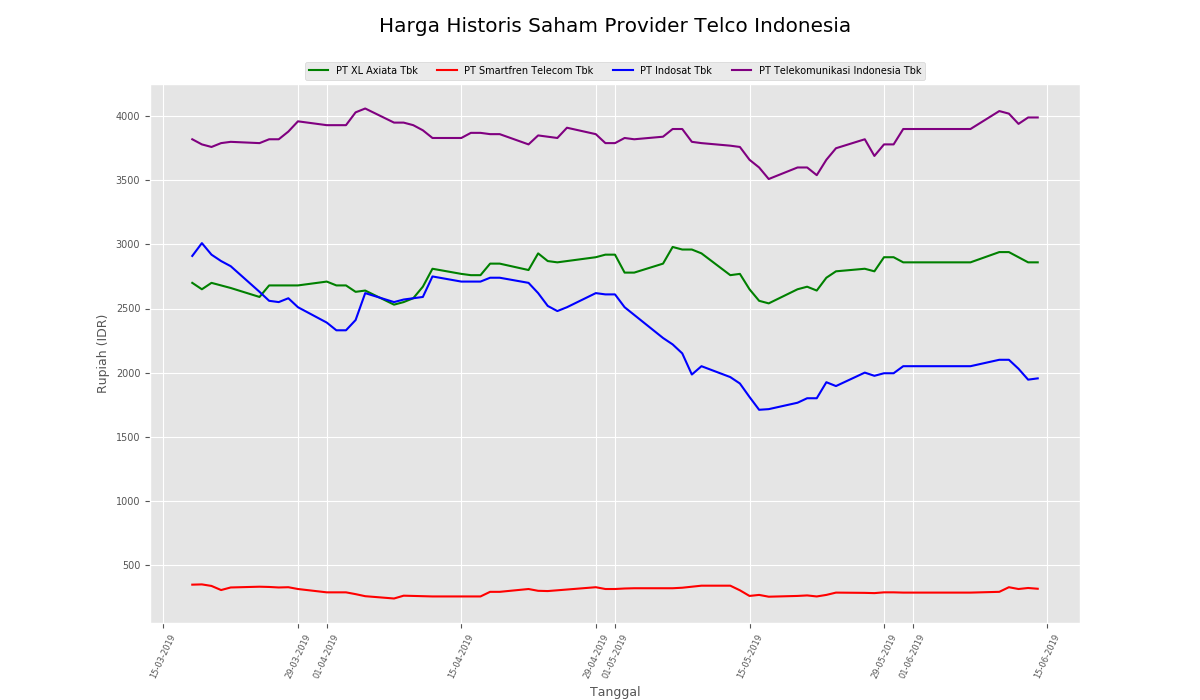
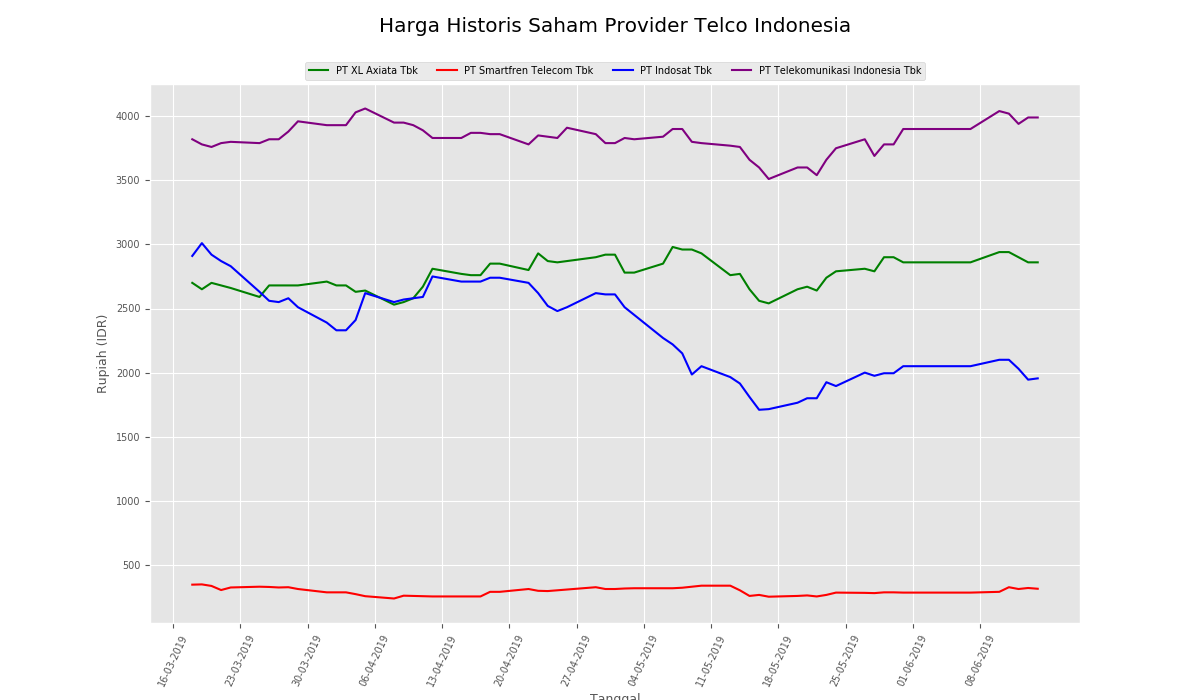
Saham_Telco_IDN

diff --git a/soal3_2.py b/soal3_2.py
@@ -2,6 +2,7 @@ import matplotlib.pyplot as plt
 import pandas as pd
 import os 
 from flask import Flask
+import numpy as np
 import matplotlib.dates as mdates
 
 # The converter was registered by pandas on import
@@ -37,7 +38,7 @@ plt.plot(xlapril.index,xlapril['Close'],'g-',
         tlkmapril.index,tlkmapril['Close'],'purple')
 plt.grid(True)
 plt.gca().xaxis.set_major_formatter(mdates.DateFormatter('%d-%m-%Y'))
-plt.xticks(rotation=65,fontsize=7)
+plt.xticks(np.arange(np.datetime64('2019-04-01'), np.datetime64('2019-05-01'),1),rotation=65,fontsize=7)
 plt.xlabel('Tanggal')
 plt.ylabel('Rupiah (IDR)')
 plt.legend(['PT XL Axiata Tbk','PT Smartfren Telecom Tbk','PT Indosat Tbk','PT Telekomunikasi Indonesia Tbk'],loc='upper center',ncol=4,fontsize=7,bbox_to_anchor=(0.5, 1.06))

diff --git a/soal3_1.py b/soal3_1.py
@@ -2,6 +2,7 @@ import matplotlib.pyplot as plt
 import pandas as pd
 import os 
 from flask import Flask
+import numpy as np
 import matplotlib.dates as mdates
 
 # The converter was registered by pandas on import
@@ -35,7 +36,7 @@ plt.title('Harga Historis Saham Provider Telco Indonesia\n\n')
 plt.ylabel('Rupiah (IDR)',fontsize=9)
 plt.xlabel('Tanggal',fontsize=9)
 plt.gca().xaxis.set_major_formatter(mdates.DateFormatter('%d-%m-%Y'))
-plt.xticks(rotation=65,fontsize=6)
+plt.xticks(np.arange(np.datetime64('2019-03-16'), np.datetime64('2019-06-14'),7),rotation=65,fontsize=7)
 plt.yticks(fontsize=7)
 namafile='soal3_1.png'
 plt.savefig(os.path.join(app.config['UPLOAD_FOLDER'],namafile))
